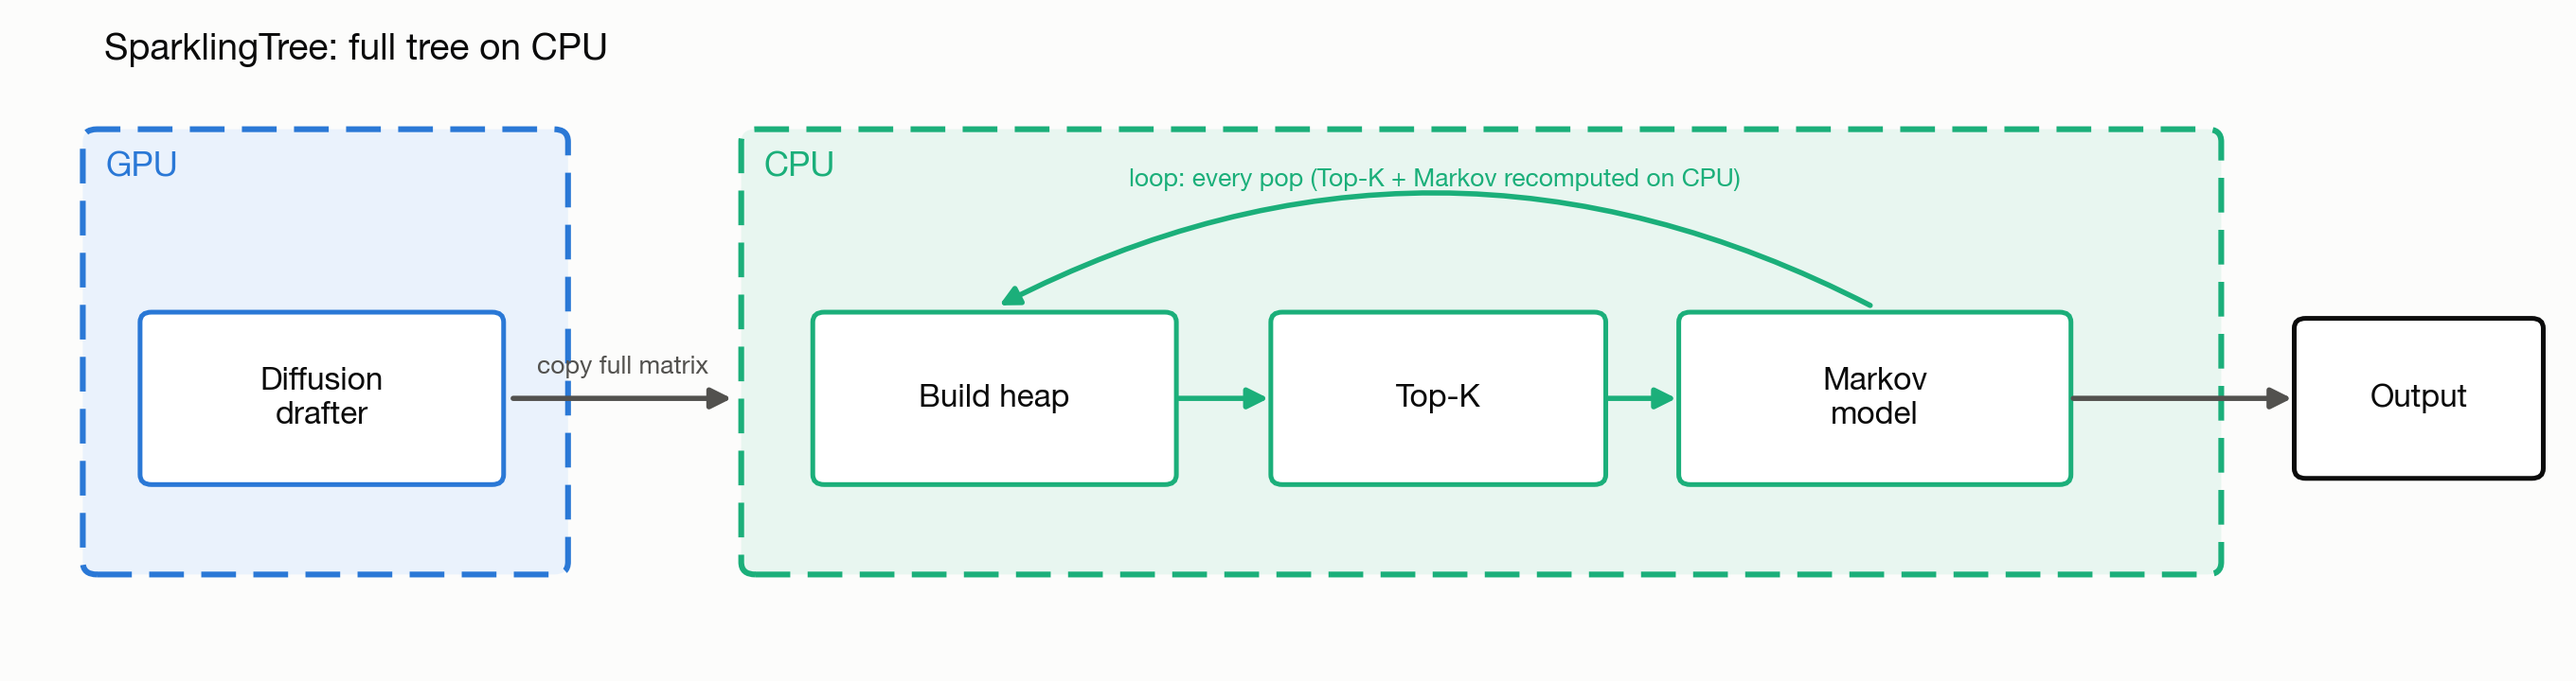
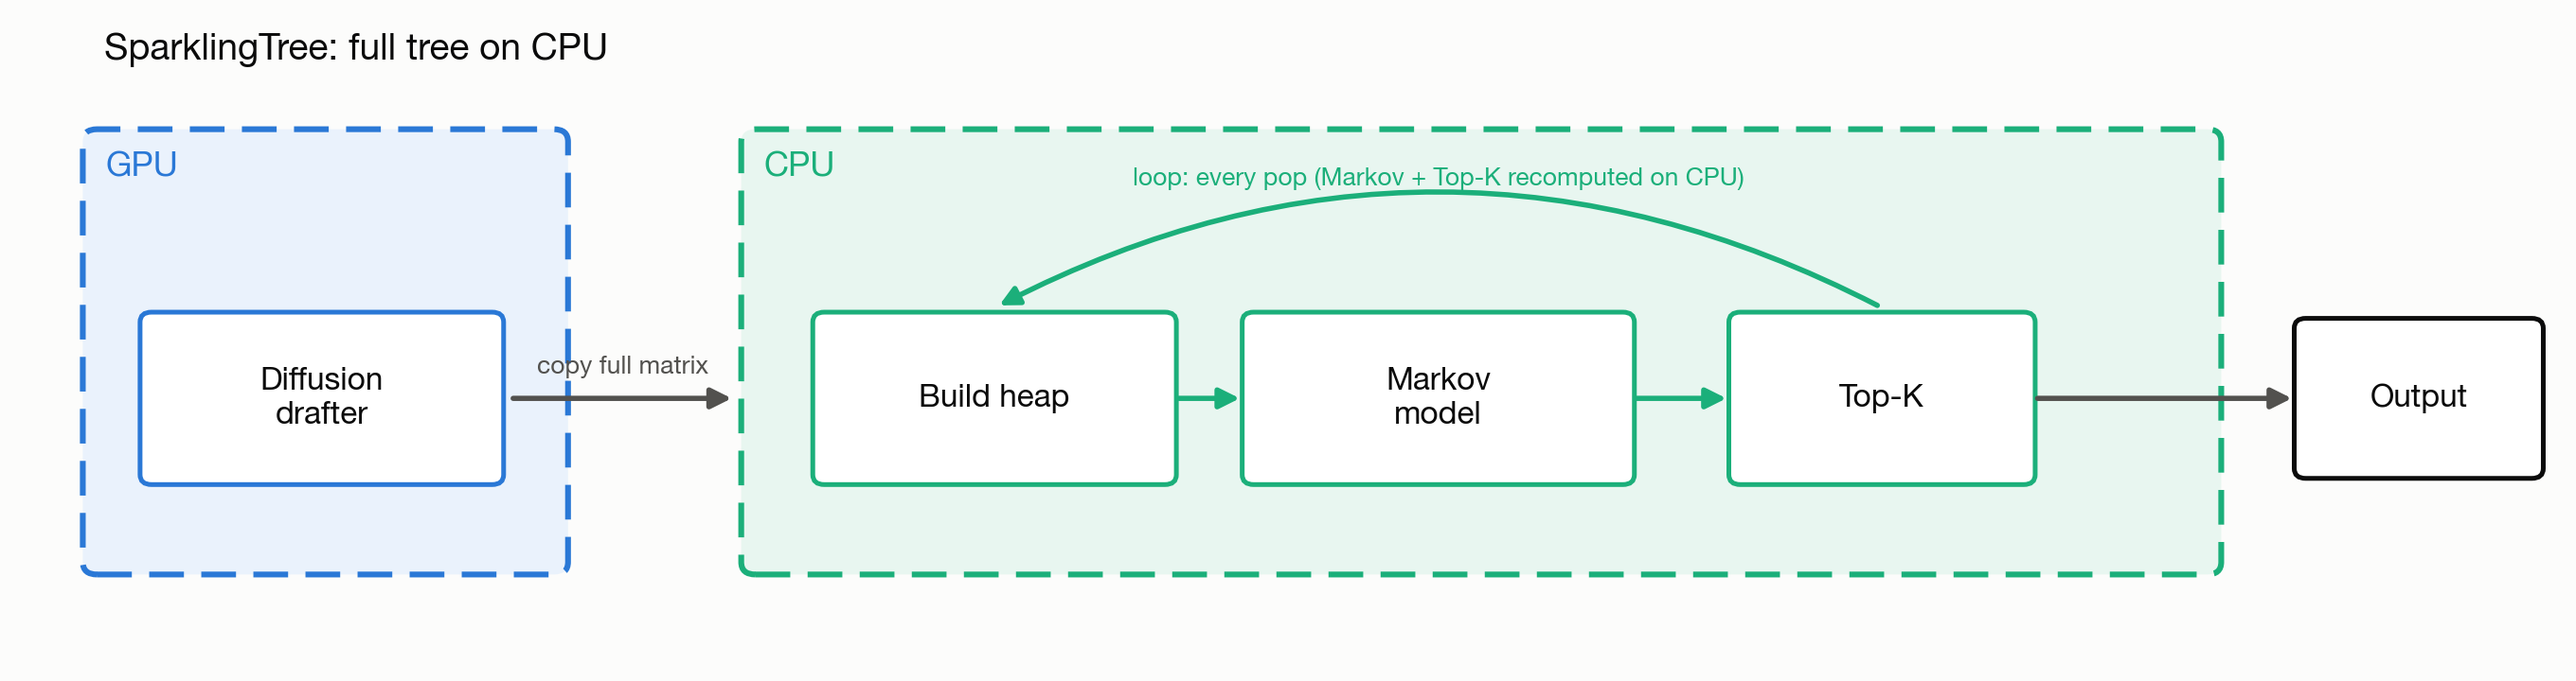
new images

diff --git a/assets/why-slow/make_why_slow.py b/assets/why-slow/make_why_slow.py
@@ -90,7 +90,7 @@ def dflash():
     container(ax, 0.4, 0.55, 7.4, 3.2, "GPU", GPU_FILL, GPU_EDGE)
 
     node(ax, 2.15, 2.0, 2.7, 1.25, "Diffusion\ndrafter", edge=BLUE, textcolor=INK)
-    node(ax, 5.85, 2.0, 2.2, 1.25, "Top-K", sub="argmax", edge=BLUE, textcolor=INK)
+    node(ax, 5.85, 2.0, 2.2, 1.25, "argmax", edge=BLUE, textcolor=INK)
 
     # drafter -> top-K (inside GPU)
     arrow(ax, 3.55, 2.0, 4.72, 2.0, color=BLUE)
@@ -166,30 +166,28 @@ def span_loop(ax, x0, x1, y, color, label, rad=0.32):
 
 
 def dspark():
-    fig, ax = plt.subplots(figsize=(12.8, 3.6))
-    ax.set_xlim(0, 16.2)
+    fig, ax = plt.subplots(figsize=(12.0, 3.6))
+    ax.set_xlim(0, 14.2)
     ax.set_ylim(0, 4.9)
     ax.axis("off")
 
     # everything lives on the GPU
-    container(ax, 0.4, 0.65, 12.5, 3.55, "GPU", GPU_FILL, GPU_EDGE)
+    container(ax, 0.4, 0.65, 10.1, 3.55, "GPU", GPU_FILL, GPU_EDGE)
 
     node(ax, 2.15, 2.05, 2.6, 1.25, "Diffusion\ndrafter", edge=BLUE, textcolor=INK)
-    node(ax, 5.35, 2.05, 2.6, 1.25, "Autoregressive\nMarkov head", edge=BLUE, textcolor=INK)
-    node(ax, 8.25, 2.05, 1.9, 1.25, "Top-K", edge=BLUE, textcolor=INK)
-    node(ax, 11.0, 2.05, 2.1, 1.25, "Sampler", edge=BLUE, textcolor=INK)
+    node(ax, 5.65, 2.05, 2.9, 1.25, "Markov head\n(bias)", edge=BLUE, textcolor=INK)
+    node(ax, 8.95, 2.05, 2.1, 1.25, "argmax", edge=BLUE, textcolor=INK)
 
-    arrow(ax, 3.45, 2.05, 4.05, 2.05, color=BLUE)   # drafter -> markov head
-    arrow(ax, 6.65, 2.05, 7.30, 2.05, color=BLUE)   # markov head -> top-K
-    arrow(ax, 9.20, 2.05, 9.95, 2.05, color=BLUE)   # top-K -> sampler
+    arrow(ax, 3.45, 2.05, 4.15, 2.05, color=BLUE)   # drafter -> markov head
+    arrow(ax, 7.15, 2.05, 7.85, 2.05, color=BLUE)   # markov head -> argmax
 
-    # iterative loop over head + top-K + sampler
-    span_loop(ax, 5.35, 11.0, 2.68, BLUE,
-              "loop: N small GPU ops (Markov head + Top-K + sample)")
+    # iterative loop over bias + argmax, one token at a time
+    span_loop(ax, 5.65, 8.95, 2.68, BLUE,
+              "loop: N small GPU ops (bias + argmax, per token)")
 
-    # sampler -> output (crosses GPU boundary)
-    arrow(ax, 12.05, 2.05, 13.85, 2.05, color=INK2)
-    node(ax, 14.9, 2.05, 1.9, 1.25, "Output", edge=INK, textcolor=INK)
+    # argmax (the sampler) -> output (crosses GPU boundary)
+    arrow(ax, 10.05, 2.05, 11.85, 2.05, color=INK2)
+    node(ax, 12.9, 2.05, 1.9, 1.25, "Output", edge=INK, textcolor=INK)
 
     ax.set_title("DSpark: no tree", loc="left", x=0.035, y=0.95,
                  fontsize=14, fontweight="bold", color=INK)
@@ -215,18 +213,18 @@ def sparklingtree():
     # CPU does everything: heap + top-K + Markov, recomputed every pop
     container(ax, 5.0, 0.65, 10.3, 3.55, "CPU", CPU_FILL, CPU_EDGE)
     node(ax, 6.75, 2.05, 2.5, 1.35, "Build heap", edge=AQUA, textcolor=INK)
-    node(ax, 9.85, 2.05, 2.3, 1.35, "Top-K", edge=AQUA, textcolor=INK)
-    node(ax, 12.9, 2.05, 2.7, 1.35, "Markov\nmodel", edge=AQUA, textcolor=INK)
+    node(ax, 9.85, 2.05, 2.7, 1.35, "Markov\nmodel", edge=AQUA, textcolor=INK)
+    node(ax, 12.95, 2.05, 2.1, 1.35, "Top-K", edge=AQUA, textcolor=INK)
 
-    arrow(ax, 8.0, 2.05, 8.70, 2.05, color=AQUA)     # heap -> top-K
-    arrow(ax, 11.0, 2.05, 11.55, 2.05, color=AQUA)   # top-K -> markov
+    arrow(ax, 8.0, 2.05, 8.50, 2.05, color=AQUA)     # heap -> markov
+    arrow(ax, 11.2, 2.05, 11.90, 2.05, color=AQUA)   # markov -> top-K
 
     # loop over the whole CPU pipeline, recomputed on every pop
-    span_loop(ax, 6.75, 12.9, 2.78, AQUA,
-              "loop: every pop (Top-K + Markov recomputed on CPU)", rad=0.26)
+    span_loop(ax, 6.75, 12.95, 2.78, AQUA,
+              "loop: every pop (Markov + Top-K recomputed on CPU)", rad=0.26)
 
     # CPU -> output
-    arrow(ax, 14.25, 2.05, 15.85, 2.05, color=INK2)
+    arrow(ax, 14.0, 2.05, 15.85, 2.05, color=INK2)
     node(ax, 16.7, 2.05, 1.7, 1.25, "Output", edge=INK, textcolor=INK)
 
     ax.set_title("SparklingTree: full tree on CPU", loc="left", x=0.03, y=0.95,
